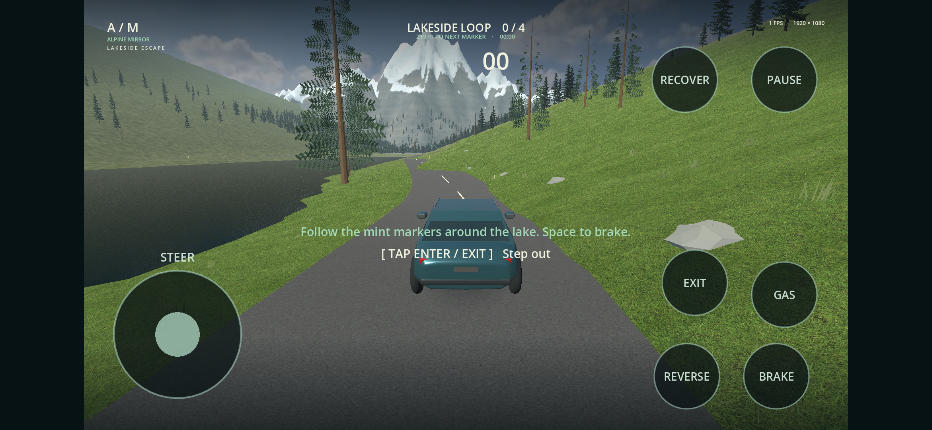
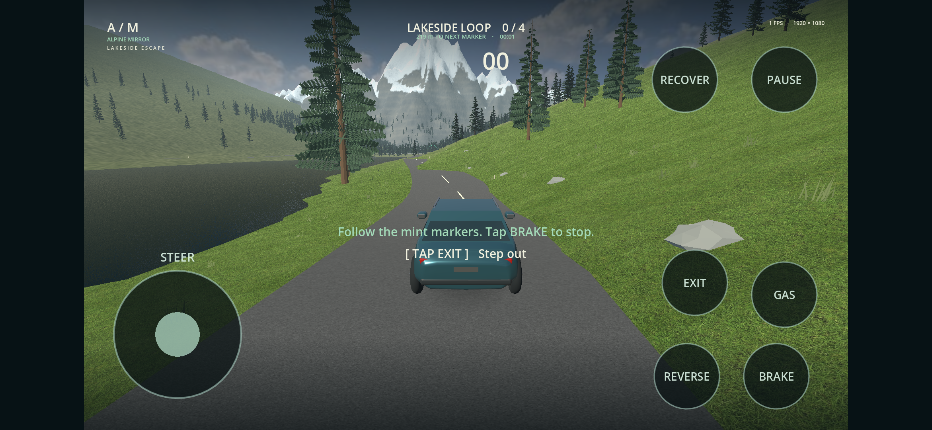
Record verified mobile Pages release and final rendered captures

Changed region(s): [[0.3112, 0.0, 0.4667, 0.393], [0.4667, 0.0, 0.6845, 0.3326], [0.3112, 0.514, 0.6845, 0.6047]]

diff --git a/docs/game/BUILD_STATUS.md b/docs/game/BUILD_STATUS.md
@@ -21,6 +21,8 @@ This is not a production-ready 1080p60 game, not a finished GTA-scale world, and
 - Source project under `game/`, asset-generation/build/test tools under `tools/game/`, specialist usage trace in `docs/GAME_SKILL_USAGE.md`.
 - Downloadable Web package: `.exports/Alpine_Mirror_Web.zip` (generated outside Git). It includes actual WASM/PCK runtime files, licenses and credits. Serve it over HTTP(S), not `file://`.
 
+Published mobile/realism code revision: **`e91a6eb`**. The updated game is live on the same Pages URL.
+
 ## Verified evidence
 
 | Gate | Result | Evidence |
@@ -28,13 +30,13 @@ This is not a production-ready 1080p60 game, not a finished GTA-scale world, and
 | Real engine/toolchain | PASS | Official pinned Godot executable, matching Web templates, original upstream checksums and local transport hashes; `docs/GODOT_TOOLCHAIN_PROVENANCE.json` |
[1 lines of base64/hex data omitted]
 | Blender -> Godot asset import | PASS | Native heightfields resampled to 61,400 terrain triangles; CPU-baked original materials; GLB assets imported by actual Godot |
-| Actual engine physics/state | **26/26 PASS locally** | `headless-validation.json`: original 14 keyboard/physics checks plus real viewport-local touch events, multi-touch ownership, camera orbit, movement, drive/brake/exit, pause/release, focus cleanup, recovery and instantiated detail |
+| Actual engine physics/state | **26/26 PASS locally and in CI** | `headless-validation.json`: original 14 keyboard/physics checks plus real viewport-local touch events, multi-touch ownership, camera orbit, movement, drive/brake/exit, pause/release, focus cleanup, recovery and instantiated detail |
 | Desktop rendered browser gameplay — earlier baseline | **PASS (historical)** | `browser-validation.json`: real Chromium WebGL 2 / SwiftShader, actual keyboard input, 4.23 m recorded drive displacement, braking and subsequent exit, no console errors |
 | Native 1080p | **VERIFIED** | Both Godot viewport and actual browser canvas are 1920 x 1080; render scale is 1.0; actual PNG captures below |
-| GitHub Pages hosting | **LIVE** | [Play online](https://mhammedamazil-hub.github.io/Testrepo/). [Deployment run](https://github.com/mhammedamazil-hub/Testrepo/actions/runs/42484554999) passed, including public HTTPS HTML/JS/audio-worklet checks, WASM/PCK binary headers and WASM MIME type. Pages source is Actions; the `github-pages` environment allows the active branch. Hosting checks do not certify rendered performance. |
-| Source/evidence regression suite | **26/26 PASS locally** | Nine game/asset/mobile integrity tests plus the existing 17 audit/production/recovery checks |
+| GitHub Pages hosting | **LIVE** | [Play online](https://mhammedamazil-hub.github.io/Testrepo/). [Mobile update deployment](https://github.com/mhammedamazil-hub/Testrepo/actions/runs/42487951351) passed, including public HTTPS HTML/JS/audio-worklet checks, WASM/PCK binary headers and WASM MIME type. Pages source is Actions; the `github-pages` environment allows the active branch. Hosting checks do not certify rendered performance. |
+| Source/evidence regression suite | **26/26 PASS locally and in CI** | Nine game/asset/mobile integrity tests plus the existing 17 audit/production/recovery checks |
 | Rendered mobile touch gameplay | **15/15 PASS in emulation** | `mobile-browser-validation.json`: real Chromium CDP touch input, 932×430 phone viewport, native 1920×1080 canvas, simultaneous movement/look and throttle/steer, 4.32 m drive, brake/exit/pause/resume/cancel/focus handling, no console errors. Physical phones are not certified. |
-| Clean public-runner import/test/export | **PASS** | [First independent CI run](https://github.com/mhammedamazil-hub/Testrepo/actions/runs/42478054008): verified engine restore, clean asset import, 14 engine checks, 23 regression tests, actual Web export and downloadable artifact. Standard public-repository CPU runner; not a rendered FPS benchmark. |
+| Clean public-runner import/test/export | **PASS** | [Mobile revision CI run](https://github.com/mhammedamazil-hub/Testrepo/actions/runs/42487951351): verified engine restore, clean asset import, 26 engine checks, 26 regression tests, actual Web export, downloadable artifact, Pages publication and public HTTPS runtime checks. Standard public-repository CPU runner; not a rendered FPS benchmark. |
 | 60 FPS rendering | **NOT MET** | Earlier desktop software sample: 1 FPS / 1,814.5 ms P95 across 9 samples. The mobile-emulation functional run also reported 1 FPS, with a mixed-run P95 of 4,491 ms across 121 samples. These CPU SwiftShader runs are not controlled physical-phone benchmarks. Hardware-GPU performance remains untested. |
 | Photoreal / full open-world completion | NOT APPROVED | Improved vehicle/environment, but character remains simplified; near trees use branch cards, distant trees are billboards; no traffic/NPC/combat/mission systems |
 
